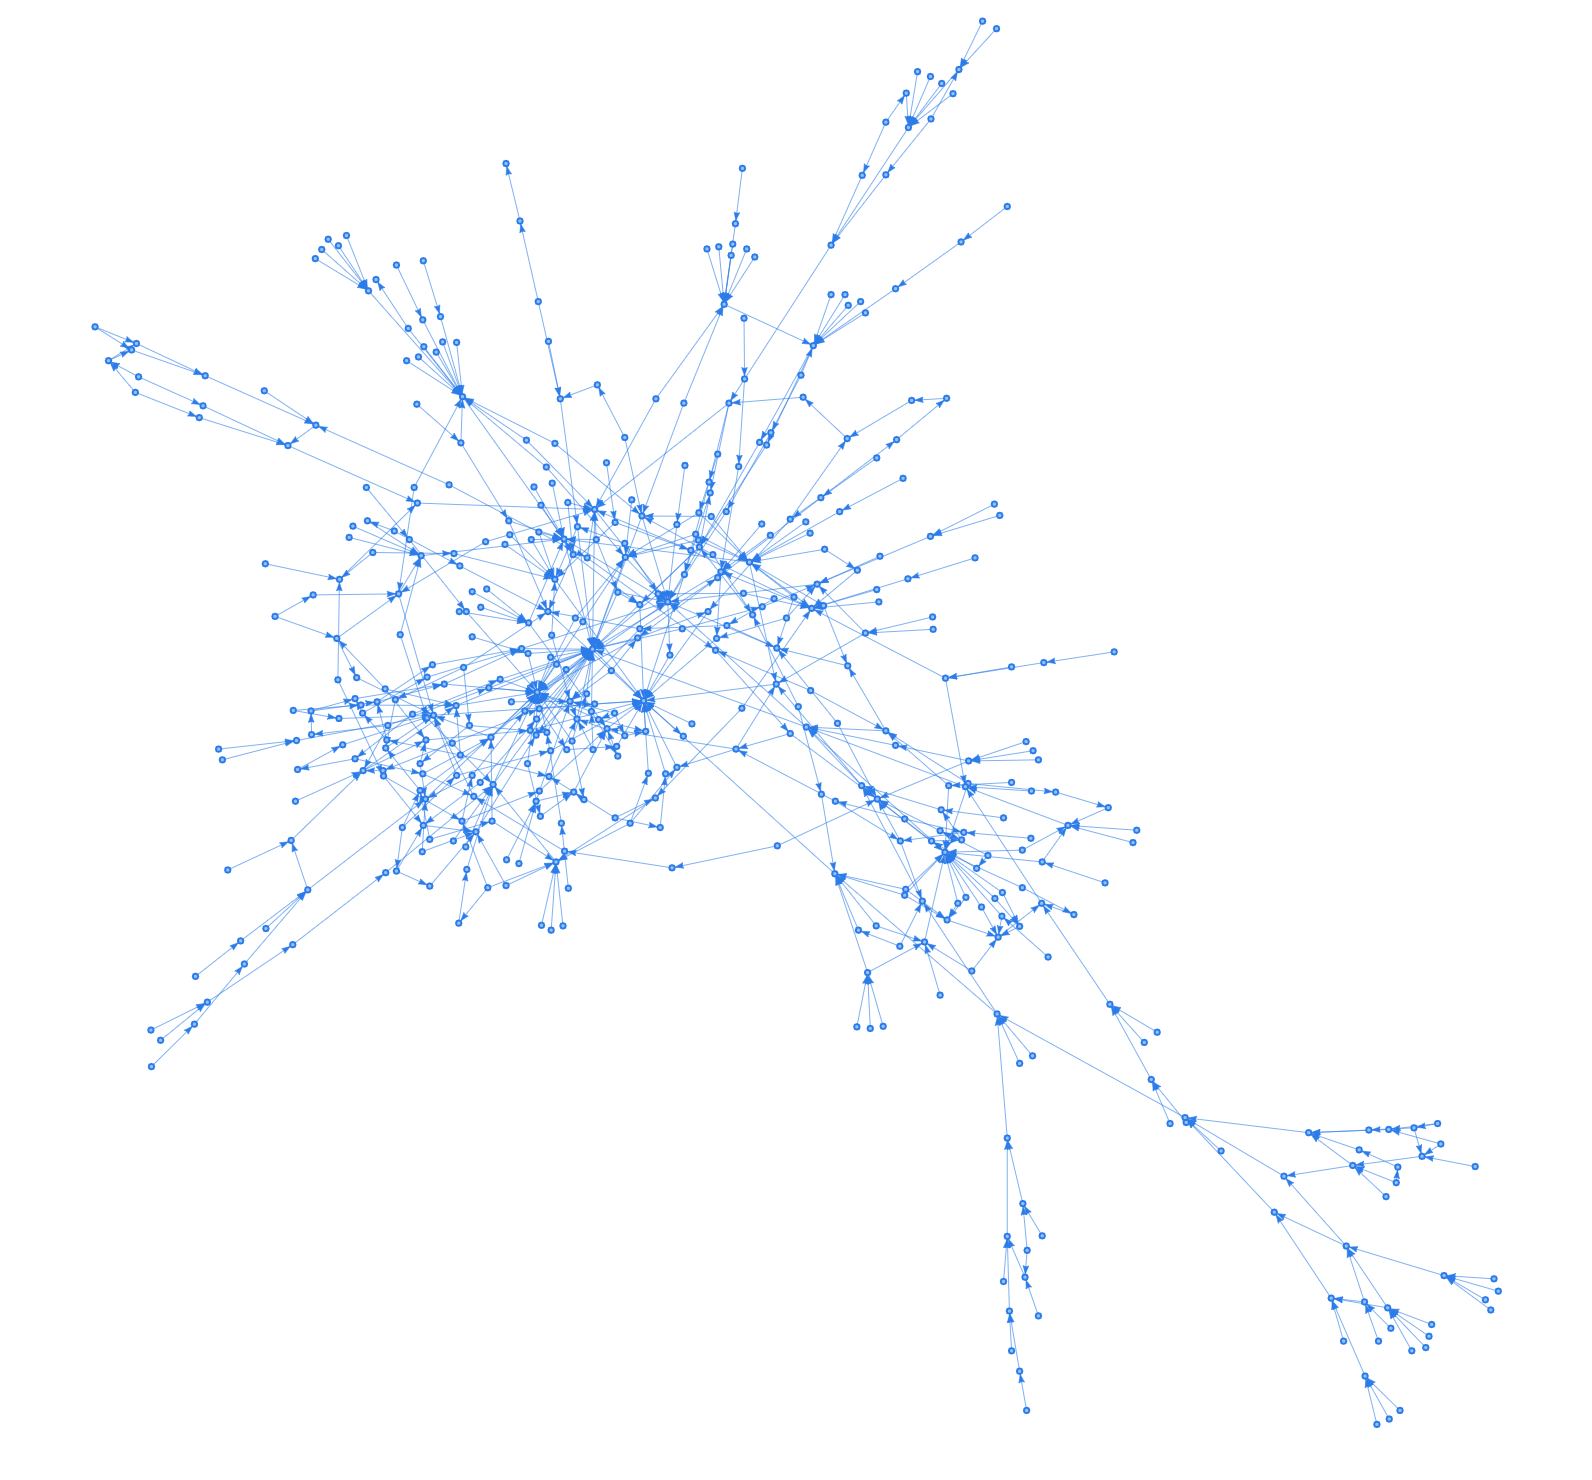
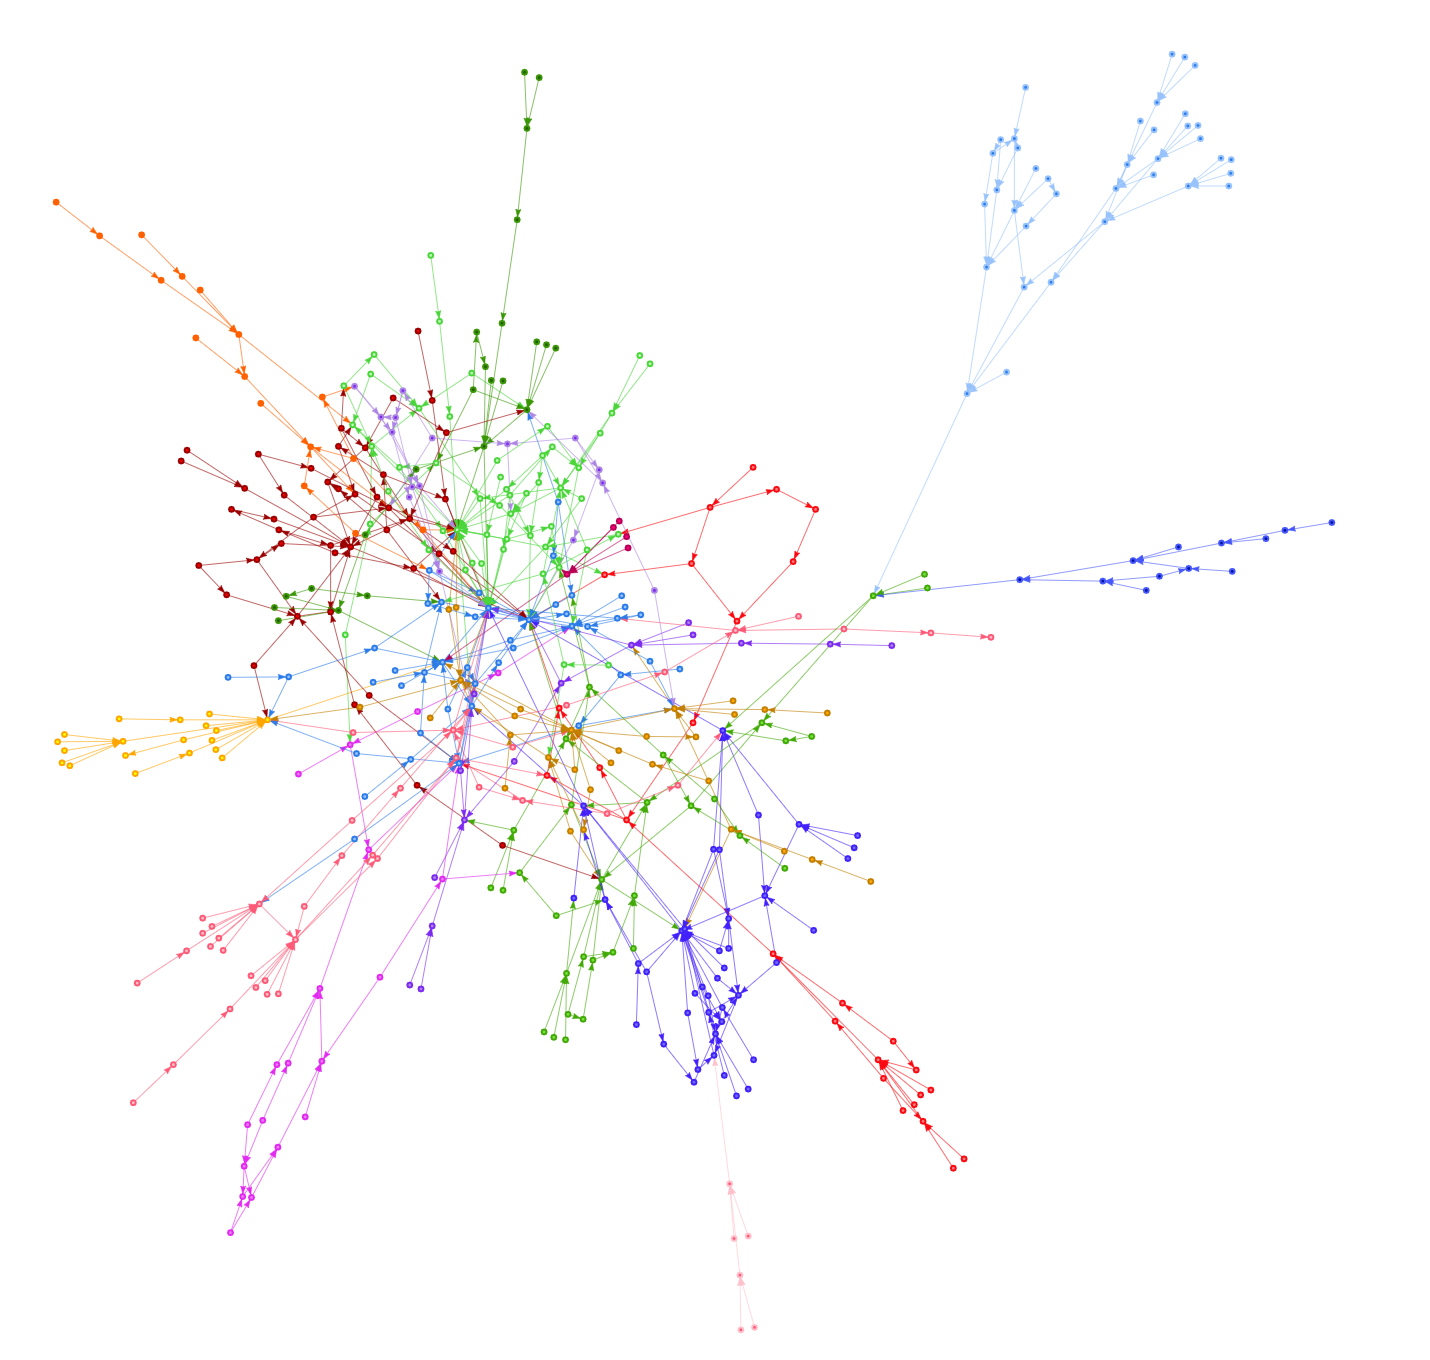
some CL plots with clustering and different layouts, connective edges only

diff --git a/notebook.md b/notebook.md
@@ -216,19 +216,19 @@ KEGG seems to only have hematopoietic cell lineage:
 #### comparing clustering algs. on all of fantom
 
 **fantom_cluster_fast_greedy**
-![fantom_cluster_fast_greedy](https://github.com/thejmazz/ontoscope-cell-lineage/blob/master/plots/fantom_cluster_fast_greedy.png)
+![fantom_cluster_fast_greedy](https://github.com/thejmazz/ontoscope-cell-lineage/blob/master/plots/fantom_cluster_fast_greedy.png?raw=true)
 
 **fantom_cluster_infomap**
-![fantom_cluster_infomap](https://github.com/thejmazz/ontoscope-cell-lineage/blob/master/plots/fantom_cluster_infomap.png)
+![fantom_cluster_infomap](https://github.com/thejmazz/ontoscope-cell-lineage/blob/master/plots/fantom_cluster_infomap.png?raw=true)
 
 **fantom_cluster_leading_eigen**
-![fantom_cluster_leading_eigen](https://github.com/thejmazz/ontoscope-cell-lineage/blob/master/plots/fantom_cluster_leading_eigen.png)
+![fantom_cluster_leading_eigen](https://github.com/thejmazz/ontoscope-cell-lineage/blob/master/plots/fantom_cluster_leading_eigen.png?raw=true)
 
 **fantom_cluster_louvain**
-![fantom_cluster_louvain](https://github.com/thejmazz/ontoscope-cell-lineage/blob/master/plots/fantom_cluster_louvain.png)
+![fantom_cluster_louvain](https://github.com/thejmazz/ontoscope-cell-lineage/blob/master/plots/fantom_cluster_louvain.png?raw=true)
 
 **fantom_cluster_waltrap**
-![fantom_cluster_walktrap](https://github.com/thejmazz/ontoscope-cell-lineage/blob/master/plots/fantom_cluster_walktrap.png)
+![fantom_cluster_walktrap](https://github.com/thejmazz/ontoscope-cell-lineage/blob/master/plots/fantom_cluster_walktrap.png?raw=true)
 
 
 - from KEGG:
@@ -238,4 +238,10 @@ KEGG seems to only have hematopoietic cell lineage:
 #### taking only CL IDs
 
 **fantom_CL_layout_nicely**
-![fantom_CL_layout_nicely](https://github.com/thejmazz/ontoscope-cell-lineage/blob/master/plots/fantom_CL_layout_nicely.png)
+![fantom_CL_layout_nicely](./plots/fantom_CL_layout_nicely.png?raw=true)
+
+**fantom_CL_kk_fast_greedy** (Kamada-Kawai layout)
+![fantom_CL_kk_fast_greedy](./plots/fantom_CL_kk_fast_greedy.png)
+
+**fantom_CL_fast_greedy** (only connective edges)
+![fantom_CL_fast_greedy](./plots/fantom_CL_fast_greedy.png)
